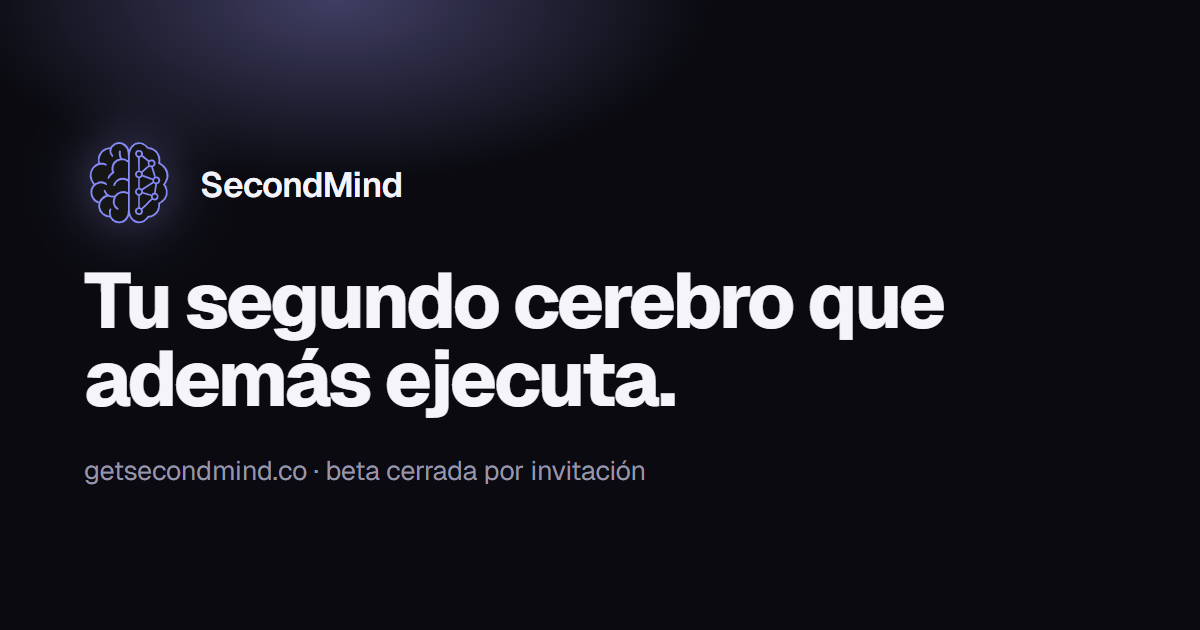
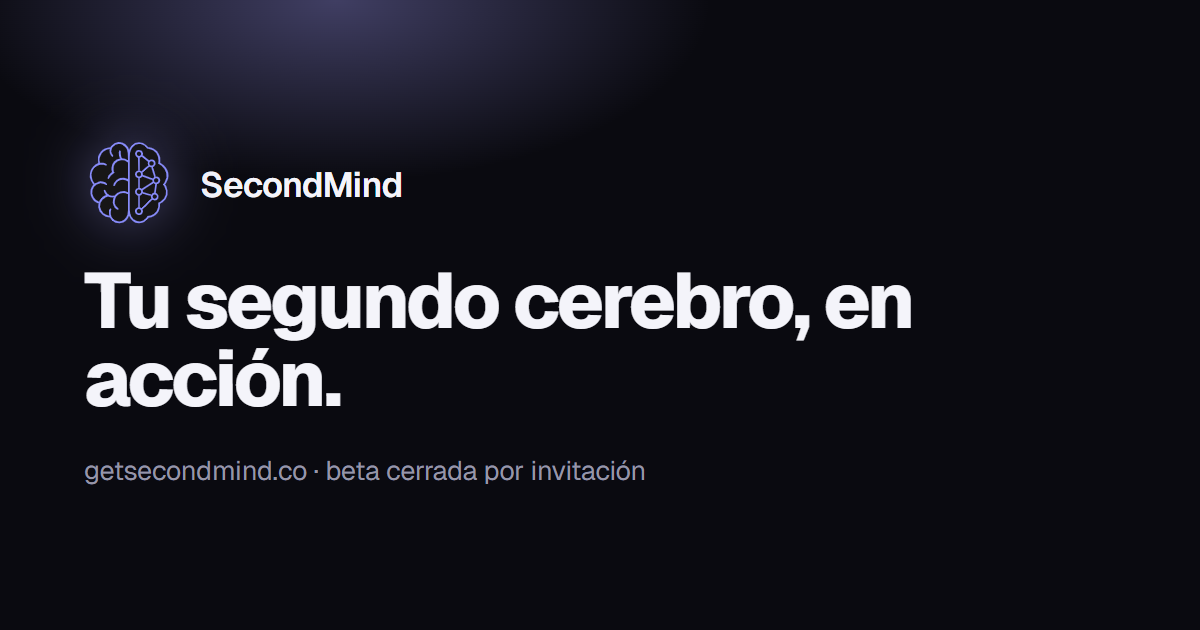
chore(tagline): adoptar el tagline canonico del producto (landing + app + README)
ES 'Tu segundo cerebro, en accion.' / EN 'Your second brain, in action.' Landing: config TAGLINE -> hero/title/og:title/footer + og:image:alt + og-image.png regenerada (el tagline estaba horneado en el PNG). App (SIN bump ni deploy, viaja con el proximo release): manifest description, i18n es/en auth.tagline, fallback en login, resources.d.ts. Docs: README + Docs/02. Sin tocar los usos conceptuales de 'segundo cerebro'.

Changed region(s): [[0.1233, 0.5429, 0.555, 0.6635], [0.6475, 0.4524, 0.8017, 0.5429]]

diff --git a/landing/src/config.ts b/landing/src/config.ts
@@ -1,10 +1,9 @@
 // Constantes de la landing (SPEC-63).
 //
-// DECISIÓN DE TAGLINE (Sebastián, F4): el draft del SPEC propone TAGLINE.
-// La app hoy usa TAGLINE_ALT ("Tu segundo cerebro digital"). Es un string:
-// cambiá TAGLINE acá y se refleja en el hero, el <title>, el OG y el footer.
-export const TAGLINE = 'Tu segundo cerebro que además ejecuta.';
-export const TAGLINE_ALT = 'Tu segundo cerebro digital.';
+// TAGLINE canónico del producto (decisión Sebastián, 2026-06-20). Se propaga al
+// hero (H1), el <title>, el og:title y el footer. El equivalente EN ("Your second
+// brain, in action.") vive en la app (src/locales/{es,en}/translation.json).
+export const TAGLINE = 'Tu segundo cerebro, en acción.';
 
 export const APP_URL = 'https://app.getsecondmind.co';
 export const CTA_URL = 'https://app.getsecondmind.co/solicitar-acceso';

diff --git a/src/app/login/page.tsx b/src/app/login/page.tsx
@@ -41,7 +41,9 @@ export default function LoginPage() {
       <div className="mb-10 flex flex-col items-center gap-3 text-center">
         <img src="/favicon.svg" alt="" aria-hidden className="h-20 w-20 md:h-24 md:w-24" />
         <h1 className="text-3xl font-extrabold tracking-tight md:text-4xl">SecondMind</h1>
-        <p className="text-muted-foreground">{t('auth.tagline', 'Tu segundo cerebro digital')}</p>
+        <p className="text-muted-foreground">
+          {t('auth.tagline', 'Tu segundo cerebro, en acción.')}
+        </p>
       </div>
 
       <LoginCard />

diff --git a/src/types/resources.d.ts b/src/types/resources.d.ts
@@ -91,7 +91,7 @@ export default interface Resources {
         disabledBody: 'Volvé más adelante o iniciá sesión con Google si ya tenés cuenta.';
         error: 'No se pudo verificar disponibilidad. Reintentá.';
       };
-      tagline: 'Tu segundo cerebro digital';
+      tagline: 'Tu segundo cerebro, en acción.';
       validation: {
         emailInvalid: 'Email inválido.';
         minChars: 'Mínimo 8 caracteres.';

diff --git a/vite.config.ts b/vite.config.ts
@@ -27,7 +27,7 @@ export default defineConfig({
       manifest: {
         name: 'SecondMind',
         short_name: 'SecondMind',
-        description: 'Tu segundo cerebro digital',
+        description: 'Tu segundo cerebro, en acción.',
         // F58: coherencia con la description (el estándar W3C no soporta
         // manifest multi-idioma — esto NO es i18n del manifest).
         lang: 'es',

diff --git a/Docs/02-flujos-ux-y-pantallas.md b/Docs/02-flujos-ux-y-pantallas.md
@@ -1004,7 +1004,7 @@ Filtros (panel expandible):
 **Propósito:** Autenticación + gate de acceso a la beta cerrada
 **Fase:** F47 (rediseño Linear-style) + F50 (allowlist)
 
-Hero centrado (logo `favicon.svg` + "SecondMind" + tagline "Tu segundo cerebro digital", radial glow indigo) sobre `LoginCard` con `@base-ui/react/tabs` balanceadas 50/50:
+Hero centrado (logo `favicon.svg` + "SecondMind" + tagline "Tu segundo cerebro, en acción.", radial glow indigo) sobre `LoginCard` con `@base-ui/react/tabs` balanceadas 50/50:
 
 - **Iniciar sesión / Crear cuenta** (tabs): email + password con validación client-side; errores mapeados a español (`authErrors.ts`). El sign-up dispara `sendEmailVerification`.
 - **Google** (`GoogleSignInButton`): branching por plataforma (Capacitor → Tauri → `signInWithPopup`).

diff --git a/README.md b/README.md
@@ -6,7 +6,7 @@ Sistema de productividad y conocimiento personal construido desde código. Combi
 
 ## Qué es
 
-SecondMind es un "segundo cerebro" digital: una app para capturar ideas sin fricción, procesarlas en notas atómicas interconectadas, y usar ese conocimiento para alimentar proyectos, decisiones y hábitos diarios.
+SecondMind es tu segundo cerebro en acción: una app para capturar ideas sin fricción, procesarlas en notas atómicas interconectadas, y usar ese conocimiento para alimentar proyectos, decisiones y hábitos diarios.
 
 El proyecto nace de la experiencia de usar Notion como Segundo Cerebro y detectar sus límites: las notas entran y mueren, no hay conexiones entre ideas, la captura es lenta, y el inbox se acumula porque procesarlo es tedioso. SecondMind intenta resolver eso desde código, con un stack optimizado para instantaneidad, offline-first, y AI como copiloto.
 